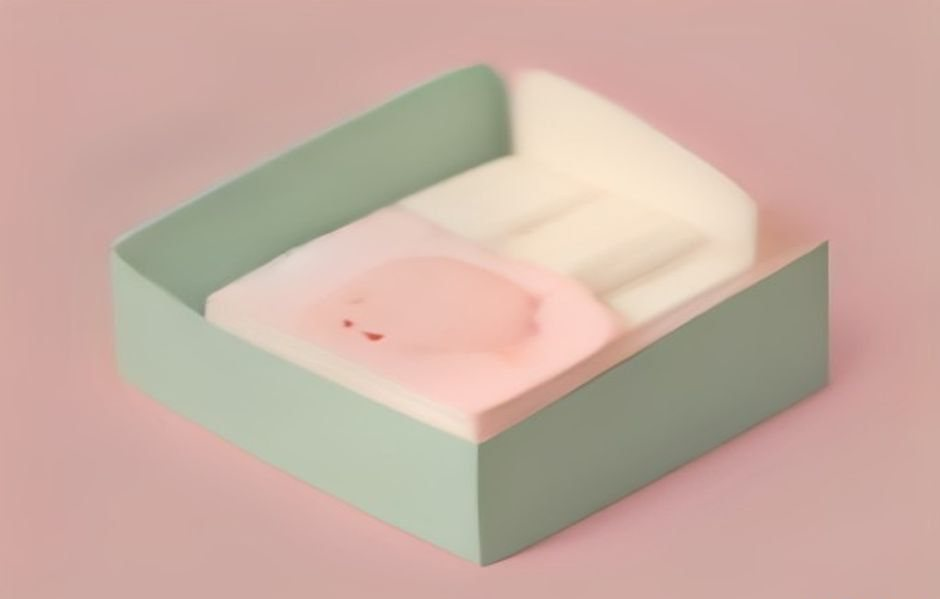
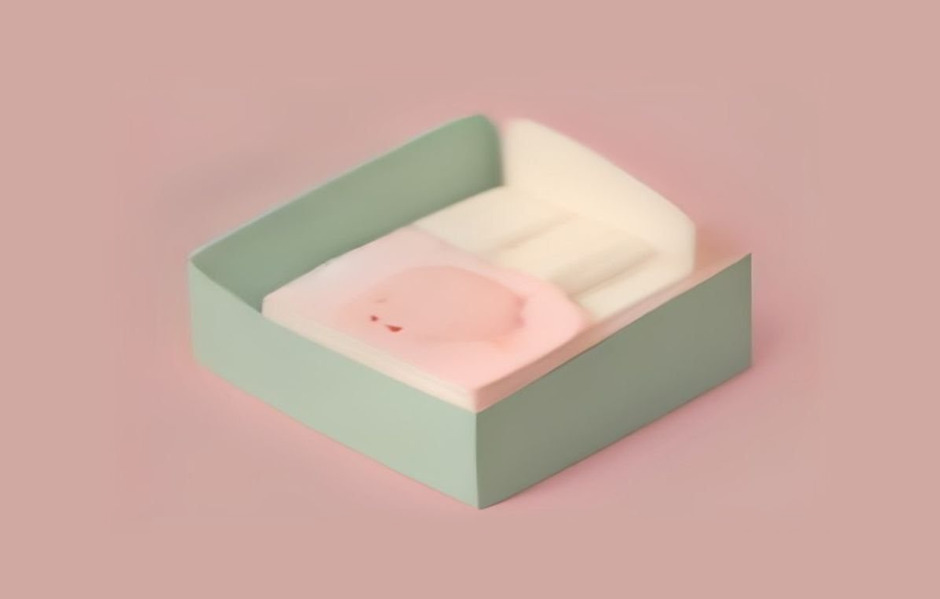
产品图尺寸统一：14张产品内容尺寸统一为520px；实景图统一1200x900；删除3张损坏的高清UI图

Changed region(s): [[0.1234, 0.0902, 0.9255, 0.9616], [0.3702, 0.5109, 0.4319, 0.571]]

diff --git a/index.html b/index.html
@@ -239,21 +239,21 @@
   </div>
   <div class="photo-grid">
     <figure class="real-photo reveal">
-      <img src="images/real-zhazidong-1.jpg?v=2" alt="渣滓洞监狱旧址外景" loading="lazy">
+      <img src="images/real-zhazidong-1.jpg?v=3" alt="渣滓洞监狱旧址外景" loading="lazy">
       <figcaption>
         <b>渣滓洞监狱旧址</b>
         <span>摄影 Yumeto · CC BY-SA 4.0 · 来源 Wikimedia Commons</span>
       </figcaption>
     </figure>
     <figure class="real-photo reveal" style="--d:.1s">
-      <img src="images/real-zhazidong-2.jpg?v=2" alt="渣滓洞监狱旧址院落" loading="lazy">
+      <img src="images/real-zhazidong-2.jpg?v=3" alt="渣滓洞监狱旧址院落" loading="lazy">
       <figcaption>
         <b>旧址院落 · 岗楼与营房</b>
         <span>摄影 Fanghong · CC BY 2.5 · 来源 Wikimedia Commons</span>
       </figcaption>
     </figure>
     <figure class="real-photo reveal" style="--d:.2s">
-      <img src="images/real-zhazidong-3.jpg?v=2" alt="渣滓洞中正室" loading="lazy">
+      <img src="images/real-zhazidong-3.jpg?v=3" alt="渣滓洞中正室" loading="lazy">
       <figcaption>
         <b>中正室 · 审讯处</b>
         <span>摄影 虹色分子 · CC BY-SA 4.0 · 来源 Wikimedia Commons</span>
@@ -313,7 +313,7 @@
             </div>
             <p class="pc-desc">四个角色：报童、小萝卜头、江姐、狱友。底座做成囚窗的样子，盒里藏了NFC芯片——手机贴上去，会弹出一段他们的故事。</p>
 
-            <figure class="prod-photo"><img src="images/figures.jpg?v=2" alt="Q版红岩人物盲盒产品图" fetchpriority="low" onerror="this.closest('.prod-photo').remove()" onload="this.closest('.prod-photo').classList.add('loaded')"><figcaption>产品效果图</figcaption></figure>
+            <figure class="prod-photo"><img src="images/figures.jpg?v=3" alt="Q版红岩人物盲盒产品图" fetchpriority="low" onerror="this.closest('.prod-photo').remove()" onload="this.closest('.prod-photo').classList.add('loaded')"><figcaption>产品效果图</figcaption></figure>
 
             <div class="bb-stage">
               <div class="bb-box" id="bbBox" role="button" tabindex="0" aria-label="点击开盒">
@@ -350,7 +350,7 @@
             </div>
             <p class="pc-desc">江姐配红梅，张露萍配木棉，左绍英配山茶。项链、发簪、胸针各一件，链节上做了倒刺的细节。</p>
 
-            <figure class="prod-photo"><img src="images/jewelry.jpg?v=2" alt="红岩花语首饰产品图" fetchpriority="low" onerror="this.closest('.prod-photo').remove()" onload="this.closest('.prod-photo').classList.add('loaded')"><figcaption>产品效果图</figcaption></figure>
+            <figure class="prod-photo"><img src="images/jewelry.jpg?v=3" alt="红岩花语首饰产品图" fetchpriority="low" onerror="this.closest('.prod-photo').remove()" onload="this.closest('.prod-photo').classList.add('loaded')"><figcaption>产品效果图</figcaption></figure>
 
             <div class="flower-stage">
               <div class="flower-svg" id="flowerSvg"></div>
@@ -377,7 +377,7 @@
             </div>
             <p class="pc-desc">棋盘一圈串起白公馆、渣滓洞、红岩村、曾家岩、新华日报旧址。事件卡上是要不要参加绝食、要不要传信这类选择，选错了要退回去重走。2到6个人玩，一局四十分钟上下。</p>
 
-            <figure class="prod-photo"><img src="images/boardgame.jpg?v=2" alt="红岩之路桌游产品图" fetchpriority="low" onerror="this.closest('.prod-photo').remove()" onload="this.closest('.prod-photo').classList.add('loaded')"><figcaption>产品效果图</figcaption></figure>
+            <figure class="prod-photo"><img src="images/boardgame.jpg?v=3" alt="红岩之路桌游产品图" fetchpriority="low" onerror="this.closest('.prod-photo').remove()" onload="this.closest('.prod-photo').classList.add('loaded')"><figcaption>产品效果图</figcaption></figure>
 
             <svg class="board-svg" viewBox="0 0 320 240" aria-hidden="true">
               <circle cx="160" cy="120" r="104" fill="none" stroke="#4a3a35" stroke-width="14"/>
@@ -414,7 +414,7 @@
             </div>
             <p class="pc-desc">一个滚筒章，一个铜质藏书印，图案是从狱中刻字和标语上描下来的。配了拓印卡——手作课上能真的盖，墨迹要晾几分钟才干。</p>
 
-            <figure class="prod-photo"><img src="images/seal-set.jpg?v=2" alt="红岩印迹印章套装产品图" fetchpriority="low" onerror="this.closest('.prod-photo').remove()" onload="this.closest('.prod-photo').classList.add('loaded')"><figcaption>产品效果图</figcaption></figure>
+            <figure class="prod-photo"><img src="images/seal-set.jpg?v=3" alt="红岩印迹印章套装产品图" fetchpriority="low" onerror="this.closest('.prod-photo').remove()" onload="this.closest('.prod-photo').classList.add('loaded')"><figcaption>产品效果图</figcaption></figure>
 
             <div class="seal-stage">
               <div class="seal-paper">
@@ -449,7 +449,7 @@
             </div>
             <p class="pc-desc">重庆人小时候都见过红岩墨水。瓶身重新设计了，印上山城轮廓；笔身上刻了四个字：烈火永生。</p>
 
-            <figure class="prod-photo"><img src="images/pen-ink.jpg?v=2" alt="红岩文房礼盒产品图" fetchpriority="low" onerror="this.closest('.prod-photo').remove()" onload="this.closest('.prod-photo').classList.add('loaded')"><figcaption>产品效果图</figcaption></figure>
+            <figure class="prod-photo"><img src="images/pen-ink.jpg?v=3" alt="红岩文房礼盒产品图" fetchpriority="low" onerror="this.closest('.prod-photo').remove()" onload="this.closest('.prod-photo').classList.add('loaded')"><figcaption>产品效果图</figcaption></figure>
 
             <div class="pen-card">
               <svg class="pen-svg" viewBox="0 0 260 120" aria-hidden="true">
@@ -482,7 +482,7 @@
             </div>
             <p class="pc-desc">四叠便签：樱花、荷花、山茶、红梅，拼在一起刚好是个方块。便签本来就是写待办的，写完就撕——用旧了才算没白做。</p>
 
-            <figure class="prod-photo"><img src="images/notes.jpg?v=2" alt="四季花语便利贴产品图" fetchpriority="low" onerror="this.closest('.prod-photo').remove()" onload="this.closest('.prod-photo').classList.add('loaded')"><figcaption>产品效果图</figcaption></figure>
+            <figure class="prod-photo"><img src="images/notes.jpg?v=3" alt="四季花语便利贴产品图" fetchpriority="low" onerror="this.closest('.prod-photo').remove()" onload="this.closest('.prod-photo').classList.add('loaded')"><figcaption>产品效果图</figcaption></figure>
 
             <div class="sticky-wall" id="stickyWall">
               <div class="note is-active" data-note="spring"><span class="n-flower">🌸</span><b>樱花</b><i>新生</i></div>
@@ -501,7 +501,7 @@
             </div>
             <p class="pc-desc">渣滓洞的岗楼和营房，做成微缩积木。零件不算多，小学生也能拼——拼完就摆在桌上。</p>
 
-            <figure class="prod-photo"><img src="images/bricks.jpg?v=2" alt="红岩地标积木产品图" fetchpriority="low" onerror="this.closest('.prod-photo').remove()" onload="this.closest('.prod-photo').classList.add('loaded')"><figcaption>产品效果图</figcaption></figure>
+            <figure class="prod-photo"><img src="images/bricks.jpg?v=3" alt="红岩地标积木产品图" fetchpriority="low" onerror="this.closest('.prod-photo').remove()" onload="this.closest('.prod-photo').classList.add('loaded')"><figcaption>产品效果图</figcaption></figure>
 
             <div class="brick-stage">
               <div class="brick" style="--h:34px;--w:120px;--c:#a82326"></div>
@@ -527,7 +527,7 @@
             </div>
             <p class="pc-desc">杯身上印着红岩旧址的线稿。三款饮品名是我们自己想的：烈火永生、雾都明灯、红岩光辉。</p>
 
-            <figure class="prod-photo"><img src="images/coffee.jpg?v=2" alt="红岩印咖啡杯产品图" fetchpriority="low" onerror="this.closest('.prod-photo').remove()" onload="this.closest('.prod-photo').classList.add('loaded')"><figcaption>产品效果图</figcaption></figure>
+            <figure class="prod-photo"><img src="images/coffee.jpg?v=3" alt="红岩印咖啡杯产品图" fetchpriority="low" onerror="this.closest('.prod-photo').remove()" onload="this.closest('.prod-photo').classList.add('loaded')"><figcaption>产品效果图</figcaption></figure>
 
             <div class="coffee-stage" id="coffeeStage">
               <div class="cup">
@@ -559,7 +559,7 @@
             </div>
             <p class="pc-desc">五张卡对应五个景点，线下有14个打卡点，扫卡上的码能听语音讲解。集齐五张，可以换一次拓印体验。</p>
 
-            <figure class="prod-photo"><img src="images/pass.jpg?v=2" alt="漫游红岩Pass打卡卡产品图" fetchpriority="low" onerror="this.closest('.prod-photo').remove()" onload="this.closest('.prod-photo').classList.add('loaded')"><figcaption>产品效果图</figcaption></figure>
+            <figure class="prod-photo"><img src="images/pass.jpg?v=3" alt="漫游红岩Pass打卡卡产品图" fetchpriority="low" onerror="this.closest('.prod-photo').remove()" onload="this.closest('.prod-photo').classList.add('loaded')"><figcaption>产品效果图</figcaption></figure>
 
             <div class="pass-stage">
               <div class="pass-bar"><span id="passFill"></span></div>
@@ -583,7 +583,7 @@
             </div>
             <p class="pc-desc">剪纸是重庆本地的手艺。画面是狱中绣红旗那一段，红纸镂空，木框装裱。</p>
 
-            <figure class="prod-photo"><img src="images/papercut.jpg?v=2" alt="狱中绣红旗剪纸产品图" fetchpriority="low" onerror="this.closest('.prod-photo').remove()" onload="this.closest('.prod-photo').classList.add('loaded')"><figcaption>产品效果图</figcaption></figure>
+            <figure class="prod-photo"><img src="images/papercut.jpg?v=3" alt="狱中绣红旗剪纸产品图" fetchpriority="low" onerror="this.closest('.prod-photo').remove()" onload="this.closest('.prod-photo').classList.add('loaded')"><figcaption>产品效果图</figcaption></figure>
 
             <div class="cut-stage">
               <div class="cut-frame">
@@ -617,7 +617,7 @@
             </div>
             <p class="pc-desc">手机扫旧址的码，屏幕上会出现防空洞里印报纸、狱中绣红旗的场景。我们测试时站在真址前面看，挺震撼的。</p>
 
-            <figure class="prod-photo"><img src="images/ar.jpg?v=2" alt="AR实景互动界面图" fetchpriority="low" onerror="this.closest('.prod-photo').remove()" onload="this.closest('.prod-photo').classList.add('loaded')"><figcaption>产品效果图</figcaption></figure>
+            <figure class="prod-photo"><img src="images/ar.jpg?v=3" alt="AR实景互动界面图" fetchpriority="low" onerror="this.closest('.prod-photo').remove()" onload="this.closest('.prod-photo').classList.add('loaded')"><figcaption>产品效果图</figcaption></figure>
 
             <div class="ar-stage">
               <div class="phone">
@@ -645,7 +645,7 @@
             </div>
             <p class="pc-desc">画了一套报童和小萝卜头的表情包。打算先在同学群里试水，好用再往外发。</p>
 
-            <figure class="prod-photo"><img src="images/stickers.jpg?v=2" alt="Q版报童表情包图" fetchpriority="low" onerror="this.closest('.prod-photo').remove()" onload="this.closest('.prod-photo').classList.add('loaded')"><figcaption>产品效果图</figcaption></figure>
+            <figure class="prod-photo"><img src="images/stickers.jpg?v=3" alt="Q版报童表情包图" fetchpriority="low" onerror="this.closest('.prod-photo').remove()" onload="this.closest('.prod-photo').classList.add('loaded')"><figcaption>产品效果图</figcaption></figure>
 
             <div class="sticker-wall">
               <div class="sticker s-boy"><span class="st-head">📰</span><p>卖报啦！</p></div>
@@ -664,7 +664,7 @@
             </div>
             <p class="pc-desc">六个角色：狱中党员、看守、报童、狱友、医生，还有一个叛徒。每个人手里都攥着别人不知道的底牌。</p>
 
-            <figure class="prod-photo"><img src="images/script.jpg?v=2" alt="黎明前夜剧本杀海报" fetchpriority="low" onerror="this.closest('.prod-photo').remove()" onload="this.closest('.prod-photo').classList.add('loaded')"><figcaption>产品效果图</figcaption></figure>
+            <figure class="prod-photo"><img src="images/script.jpg?v=3" alt="黎明前夜剧本杀海报" fetchpriority="low" onerror="this.closest('.prod-photo').remove()" onload="this.closest('.prod-photo').classList.add('loaded')"><figcaption>产品效果图</figcaption></figure>
 
             <div class="script-card">
               <div class="sc-head">
@@ -686,7 +686,7 @@
             </div>
             <p class="pc-desc">地标打卡卡和版画做成了数字版。点一下卡片会翻面，背面有编号。</p>
 
-            <figure class="prod-photo"><img src="images/nft.jpg?v=2" alt="红岩数字藏品卡图" fetchpriority="low" onerror="this.closest('.prod-photo').remove()" onload="this.closest('.prod-photo').classList.add('loaded')"><figcaption>产品效果图</figcaption></figure>
+            <figure class="prod-photo"><img src="images/nft.jpg?v=3" alt="红岩数字藏品卡图" fetchpriority="low" onerror="this.closest('.prod-photo').remove()" onload="this.closest('.prod-photo').classList.add('loaded')"><figcaption>产品效果图</figcaption></figure>
 
             <div class="nft-row">
               <div class="nft-card">
@@ -749,10 +749,10 @@
             <span class="mp-tag">数字</span>
           </div>
           <div class="mp-grid">
-            <div class="mp-card"><img src="images/figures.jpg?v=2" alt="Q版红岩人物盲盒"><b>Q版红岩人物盲盒</b><span class="mp-price">¥69</span></div>
-            <div class="mp-card"><img src="images/jewelry.jpg?v=2" alt="花语项链"><b>花语项链 · 红梅</b><span class="mp-price">¥129</span></div>
-            <div class="mp-card"><img src="images/pen-ink.jpg?v=2" alt="红岩墨水礼盒"><b>红岩墨水礼盒</b><span class="mp-price">¥99</span></div>
-            <div class="mp-card"><img src="images/coffee.jpg?v=2" alt="红岩印咖啡杯"><b>红岩印咖啡杯</b><span class="mp-price">¥39</span></div>
+            <div class="mp-card"><img src="images/figures.jpg?v=3" alt="Q版红岩人物盲盒"><b>Q版红岩人物盲盒</b><span class="mp-price">¥69</span></div>
+            <div class="mp-card"><img src="images/jewelry.jpg?v=3" alt="花语项链"><b>花语项链 · 红梅</b><span class="mp-price">¥129</span></div>
+            <div class="mp-card"><img src="images/pen-ink.jpg?v=3" alt="红岩墨水礼盒"><b>红岩墨水礼盒</b><span class="mp-price">¥99</span></div>
+            <div class="mp-card"><img src="images/coffee.jpg?v=3" alt="红岩印咖啡杯"><b>红岩印咖啡杯</b><span class="mp-price">¥39</span></div>
           </div>
         </div>
         <div class="mp-tabbar">
@@ -786,7 +786,7 @@
           <span class="mp-nav-hold"></span>
         </div>
         <div class="mp-body">
-          <img class="mp-hero" src="images/figures.jpg?v=2" alt="Q版红岩人物盲盒">
+          <img class="mp-hero" src="images/figures.jpg?v=3" alt="Q版红岩人物盲盒">
           <div class="mp-block">
             <div class="mp-row">
               <b class="mp-name">Q版红岩人物盲盒</b>
